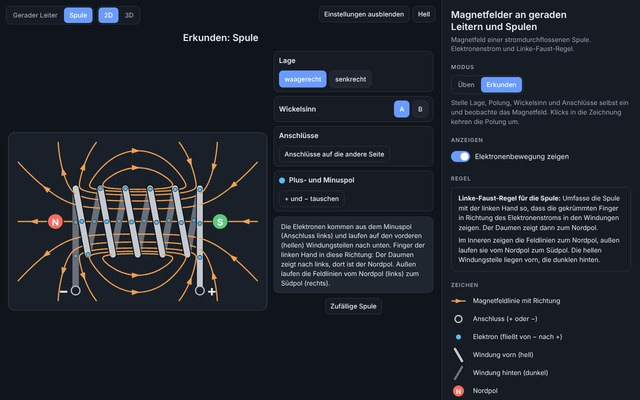
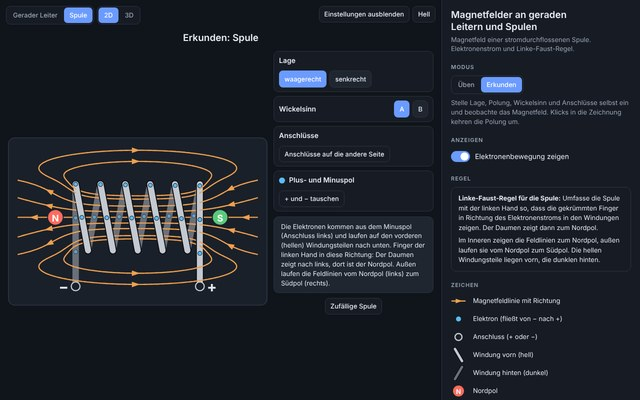
Magnetfelder: Feldlinien durch die Spulenöffnungen, 3D-Linien rundum, Leiter als Röhre
- Feldlinien starten an den Stirnflächen und laufen außen herum, nicht durch die Windungen;
  Abstand außen weich gestaucht, damit sie ins Bild passen
- 3D: Feldlinien in acht Halbebenen (auch 12, 3, 6, 9 Uhr)
- Gerader Leiter als Röhre mit sichtbarer Stirnfläche, Pole nur als + und −

Claude-Session: https://claude.ai/code/session_016VMU7oA2U7Nx9wM4hpwUyH

Changed region(s): [[0.0312, 0.36, 0.4062, 0.78], [0.6875, 0.84, 0.875, 0.87], [0.6875, 0.78, 0.875, 0.81]]

diff --git a/magnetfelder/index.html b/magnetfelder/index.html
@@ -1397,11 +1397,11 @@ window.__v3init = function(){
 
     if (c.type === 'leiter') {
       var G = MF.GL;
-      root.add(bar(W(c, -G.half, 0, 0), W(c, G.half, 0, 0), 0.075, new THREE.MeshStandardMaterial({ color:0x8b919b, metalness:0.35, roughness:0.45 })));
+      var cyl = new THREE.Mesh(new THREE.CylinderGeometry(0.1, 0.1, 2 * G.half * S, 32), new THREE.MeshStandardMaterial({ color:0x8b919b, metalness:0.35, roughness:0.45 }));
+      cyl.quaternion.setFromUnitVectors(UP, W(c, 1, 0, 0).normalize()); root.add(cyl);
       [-1, 1].forEach(function(d){
-        var tm = new THREE.Mesh(new THREE.SphereGeometry(0.11, 24, 16), mTerm); tm.position.copy(W(c, d * G.term, 0, 0)); root.add(tm);
         var s = vis.pol == null ? '?' : (vis.pol * d < 0 ? '−' : '+');
-        var b = signBadge(s, vis.marks.pol === 'bad'); b.position.copy(W(c, d * G.term, -36, 0)); root.add(b);
+        var b = signBadge(s, vis.marks.pol === 'bad'); b.position.copy(W(c, d * (G.half + 36), 0, 0)); root.add(b);
       });
       [-150, -75, 0, 75, 150].forEach(function(uc){
         [48, 88].forEach(function(R){
@@ -1437,8 +1437,8 @@ window.__v3init = function(){
         var bd = badge(k, fillc, k === '?' ? css('--unk', '#8a94a6') : '#ffffff', 0.5, k === '?');
         bd.position.copy(W(c, d * (GS.L / 2 + 44), 0, 0)); root.add(bd);
       });
-      // Feldlinien (berechnet, wie in 2D) in vier Halbebenen um die Achse
-      var F = MF.coilField(), AZ = [0.25, 0.75, 1.25, 1.75].map(function(x){ return x * Math.PI; });
+      // Feldlinien (berechnet, wie in 2D) in acht Halbebenen um die Achse (auch 12, 3, 6 und 9 Uhr)
+      var F = MF.coilField(), AZ = [0, 0.25, 0.5, 0.75, 1, 1.25, 1.5, 1.75].map(function(x){ return x * Math.PI; });
       AZ.forEach(function(al){
         var ca = Math.cos(al), sa = Math.sin(al);
         F.clipped.forEach(function(cl){
@@ -1624,18 +1624,26 @@ function fieldLines(L, R, starts, opt){
   }
   function dir(u, p){ var b = B(u, p), n = Math.hypot(b[0], b[1]) || 1; return [b[0] / n, b[1] / n]; }
   var lim = opt.limit || 900;
-  return starts.map(function(p0){
-    var u = 0, p = p0, pts = [[u, p]], out = false;
+  /* Start an der Stirnfläche (u = L/2, Abstand p0 von der Achse): rückwärts nach innen bis zur Mitte,
+     vorwärts außen herum bis zur Mittelebene. So läuft jede Linie durch die Öffnung der Spule. */
+  function trace(u, p, sgn, stop){
+    var pts = [[u, p]];
     for (var n = 0; n < 4000; n++) {
-      var h = Math.abs(u) < L / 2 + 20 && p < R + 20 ? 2 : 4;
+      var h = (Math.abs(u) < L / 2 + 20 && p < R + 20 ? 1.5 : 4) * sgn;
       var k1 = dir(u, p), k2 = dir(u + h/2*k1[0], p + h/2*k1[1]), k3 = dir(u + h/2*k2[0], p + h/2*k2[1]), k4 = dir(u + h*k3[0], p + h*k3[1]);
       var nu = u + h/6*(k1[0] + 2*k2[0] + 2*k3[0] + k4[0]), np = p + h/6*(k1[1] + 2*k2[1] + 2*k3[1] + k4[1]);
-      if (out && nu <= 0) { pts.push([0, p + (np - p) * (u / (u - nu))]); return { pts:pts, closed:true }; }
+      if (nu <= 0) { pts.push([0, p + (np - p) * (u / (u - nu))]); return { pts:pts, done:true }; }
       u = nu; p = np; pts.push([u, p]);
-      if (u > L / 2 || p > R + 3) out = true;
-      if (u > lim || p > lim) return { pts:pts, closed:false };
+      if (stop(u, p)) return { pts:pts, done:false };
     }
-    return { pts:pts, closed:false };
+    return { pts:pts, done:false };
+  }
+  return starts.map(function(p0){
+    var inn = trace(L / 2, p0, -1, function(){ return false; });
+    var minGap = 1e9;
+    var out = trace(L / 2, p0, 1, function(u, p){ if (Math.abs(u) < L / 2) minGap = Math.min(minGap, p - R); return u > lim || p > lim; });
+    var pts = inn.pts.slice().reverse().concat(out.pts.slice(1));
+    return { pts:pts, closed:out.done, gap:minGap };
   });
 }
 
@@ -1645,10 +1653,14 @@ var FL = null;
 function coilField(){
   if (FL) return FL;
   var L = GS.L, R = GS.R, BU = L / 2 + 125, BV = R + 100;
-  var halves = fieldLines(L, R, [0.97, 0.9, 0.8, 0.62, 0.38].map(function(x){ return x * R; }), { limit:900 });
+  var halves = fieldLines(L, R, [0.88, 0.74, 0.45, 0.22].map(function(x){ return x * R; }), { limit:1400 });
+  /* Darstellung: Der Abstand von der Achse wird außerhalb weich gestaucht (Steigung 1 bis 0,8·R, dann 0,2),
+     damit die Linien im Bild bleiben. Reihenfolge und Form bleiben erhalten, alle Linien laufen durch die Öffnungen. */
+  var R0 = 0.75 * R, KQ = 0.15, SG = 25;
+  function squeeze(p){ var a = Math.abs(p); if (a <= R0) return p; var d = a - R0; return (p < 0 ? -1 : 1) * (R0 + KQ * d + (1 - KQ) * SG * (1 - Math.exp(-d / SG))); }
   var lines = [];
   halves.forEach(function(h){
-    var Rh = h.pts, Lh = Rh.slice().reverse().map(function(p){ return [-p[0], p[1]]; });
+    var Rh = h.pts.map(function(q){ return [q[0], squeeze(q[1])]; }), Lh = Rh.slice().reverse().map(function(p){ return [-p[0], p[1]]; });
     var full = h.closed ? Rh.concat(Lh.slice(1)) : Lh.concat(Rh.slice(1));
     [1, -1].forEach(function(sv){ lines.push({ sv:sv, pts:full.map(function(p){ return [p[0], sv * p[1]]; }) }); });
   });
@@ -1752,9 +1764,12 @@ function drawLeiter(c, vis){
     front += '<path d="' + ring(uc, 0, Math.PI) + '"' + sty(flc, 3) + '/>' + ringArrows(uc);
     hitb += hitPath(ring(uc, 0, TAU), 16);
   });
-  var a = P(c, -GL.half, 0, 0), b = P(c, GL.half, 0, 0);
-  var bar = '<path d="M' + a[0] + ' ' + a[1] + ' L' + b[0] + ' ' + b[1] + '"' + sty('var(--wire-bo)', 17) + '/>' +
-            '<path d="M' + a[0] + ' ' + a[1] + ' L' + b[0] + ' ' + b[1] + '"' + sty('var(--wire-b)', 12) + '/>';
+  // Leiter als Röhre: Mantel, am hinteren Ende (+u) die Stirnfläche als Ellipse, vorn nur der Umriss
+  var H = GL.half, rt = 10, ex = 4.5;
+  function el(uc, t0, t1){ var pts = []; for (var i = 0; i <= 24; i++) { var t = t0 + (t1 - t0) * i / 24; pts.push(P(c, uc + ex * Math.cos(t), rt * Math.sin(t), 0)); } return pts; }
+  var body = [P(c, -H, rt, 0), P(c, H, rt, 0)].concat(el(H, Math.PI / 2, -Math.PI / 2)).concat([P(c, -H, -rt, 0)]).concat(el(-H, -Math.PI / 2, -3 * Math.PI / 2));
+  var bar = '<path d="' + pathOf(body) + ' Z" style="fill:var(--wire-b);stroke:var(--wire-bo);stroke-width:2.5;stroke-linejoin:round"/>' +
+            '<path d="' + pathOf(el(H, 0, TAU)) + ' Z" style="fill:var(--wire-f);stroke:var(--wire-bo);stroke-width:2.5"/>';
   out.push(hot('feld', back, 'Feldrichtung umkehren', vis.hot.feld));
   out.push(bar);
   out.push('<g id="eLayer"></g>');
@@ -1762,9 +1777,9 @@ function drawLeiter(c, vis){
   // Anschlüsse
   var tp = '';
   [-1, 1].forEach(function(d){
-    var t = P(c, d * GL.term, 0, 0), l = P(c, d * GL.term, -30, 0);
+    var l = P(c, d * (GL.half + 30), 0, 0);
     var s = vis.pol == null ? '?' : ((vis.pol * d < 0) ? '−' : '+');   // pol = +1: Elektronen fließen in +u-Richtung, also Minus am −u-Ende
-    tp += terminal(t[0], t[1]) + sign(l[0], l[1], s, vis.marks.pol === 'bad' ? 'var(--bad)' : null) + hitCircle(l[0], l[1], 20) + hitCircle(t[0], t[1], 16);
+    tp += sign(l[0], l[1], s, vis.marks.pol === 'bad' ? 'var(--bad)' : null) + hitCircle(l[0], l[1], 22);
   });
   out.push(hot('pol', tp, 'Plus und Minus tauschen', vis.hot.pol));
   finishSvg(out.join(''));
@@ -2027,10 +2042,10 @@ function renderLegend(){
   function mini(inner){ return '<svg viewBox="0 0 30 30" aria-hidden="true">' + inner + '</svg>'; }
   var rows = [
     [mini('<path d="M2 15 L28 15"' + sty('var(--fl)', 2.6) + '/>' + head(19, 15, 1, 0, 'var(--fl)', 6)), 'Magnetfeldlinie mit Richtung'],
-    [mini('<circle cx="15" cy="15" r="7" style="fill:var(--term);stroke:var(--term-s);stroke-width:2.5"/>'), 'Anschluss (+ oder −)'],
     [mini('<circle cx="15" cy="15" r="5" style="fill:var(--el)"/>'), 'Elektron (fließt von − nach +)']
   ];
   if (st.obj === 'spule') rows.push(
+    [mini('<circle cx="15" cy="15" r="7" style="fill:var(--term);stroke:var(--term-s);stroke-width:2.5"/>'), 'Anschluss (+ oder −)'],
     [mini('<path d="M8 3 L22 27"' + sty('var(--wire-fo)', 8) + '/><path d="M8 3 L22 27"' + sty('var(--wire-f)', 5) + '/>'), 'Windung vorn (hell)'],
     [mini('<path d="M8 27 L22 3"' + sty('var(--wire-bo)', 8) + '/><path d="M8 27 L22 3"' + sty('var(--wire-b)', 5) + '/>'), 'Windung hinten (dunkel)'],
     [mini('<circle cx="15" cy="15" r="11" style="fill:var(--pN)"/>' + text(15, 16, 'N', '#fff', 13)), 'Nordpol'],
